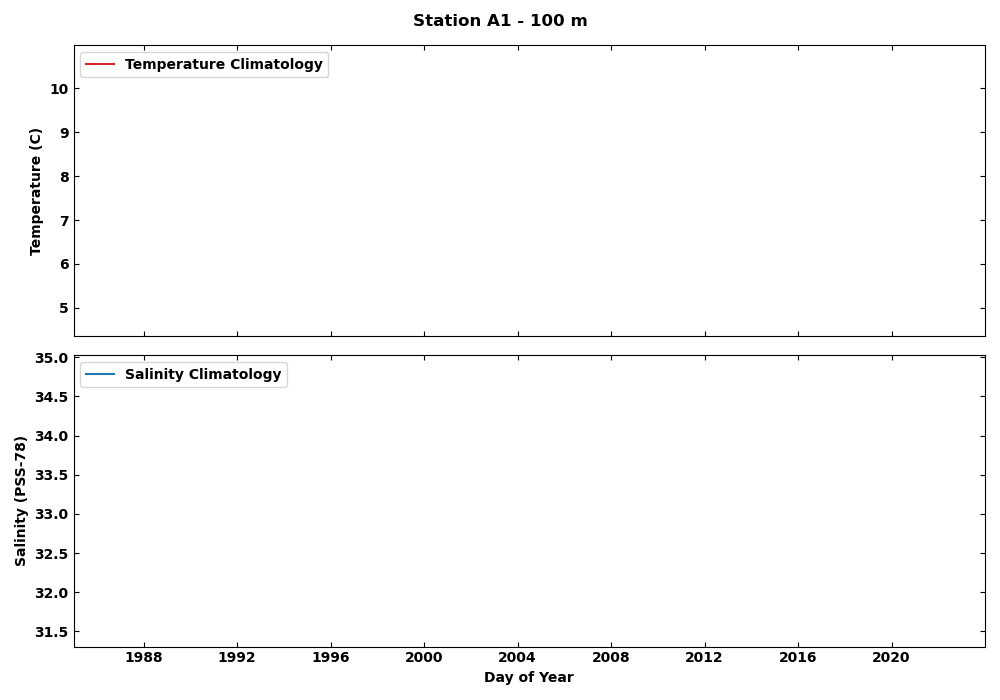
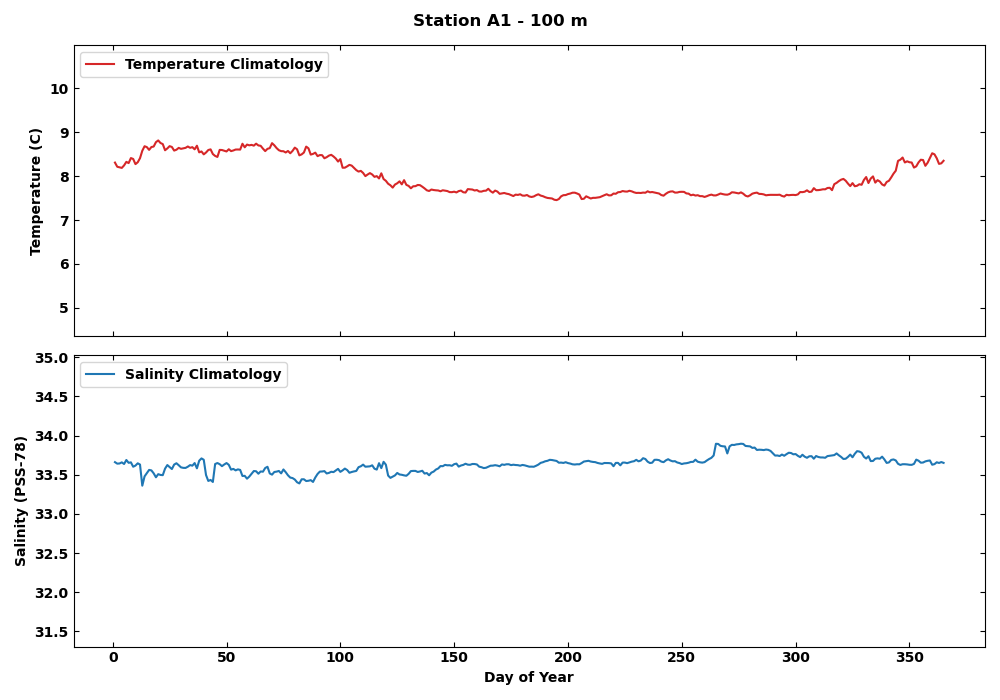
fix climatology x-axis limits

diff --git a/_site/scripts/plot_moored_data.py b/_site/scripts/plot_moored_data.py
@@ -687,7 +687,6 @@ def plot_daily_clim(df_daily_mean: pd.DataFrame, output_dir: str, station: str):
                                  bottom=True, top=True, left=True, right=True)
             ax[ax_j].tick_params(which='minor', direction='in',
                                  bottom=True, top=True, left=True, right=True)
-            ax[ax_j].set_xlim((PLOT_DATES[station][0], PLOT_DATES[station][1]))
 
         # Save figure
         standard_plot_title(station, depth)
@@ -976,8 +975,6 @@ def plot_monthly_clim(df_daily_mean: pd.DataFrame, output_dir: str, station: str
                                  bottom=True, top=True, left=True, right=True)
             ax[ax_j].tick_params(which='minor', direction='in',
                                  bottom=True, top=True, left=True, right=True)
-
-            ax[ax_j].set_xlim((PLOT_DATES[station][0], PLOT_DATES[station][1]))
 
         # Save figure
         standard_plot_title(station, depth)

diff --git a/scripts/plot_moored_data.py b/scripts/plot_moored_data.py
@@ -687,7 +687,6 @@ def plot_daily_clim(df_daily_mean: pd.DataFrame, output_dir: str, station: str):
                                  bottom=True, top=True, left=True, right=True)
             ax[ax_j].tick_params(which='minor', direction='in',
                                  bottom=True, top=True, left=True, right=True)
-            ax[ax_j].set_xlim((PLOT_DATES[station][0], PLOT_DATES[station][1]))
 
         # Save figure
         standard_plot_title(station, depth)
@@ -976,8 +975,6 @@ def plot_monthly_clim(df_daily_mean: pd.DataFrame, output_dir: str, station: str
                                  bottom=True, top=True, left=True, right=True)
             ax[ax_j].tick_params(which='minor', direction='in',
                                  bottom=True, top=True, left=True, right=True)
-
-            ax[ax_j].set_xlim((PLOT_DATES[station][0], PLOT_DATES[station][1]))
 
         # Save figure
         standard_plot_title(station, depth)
